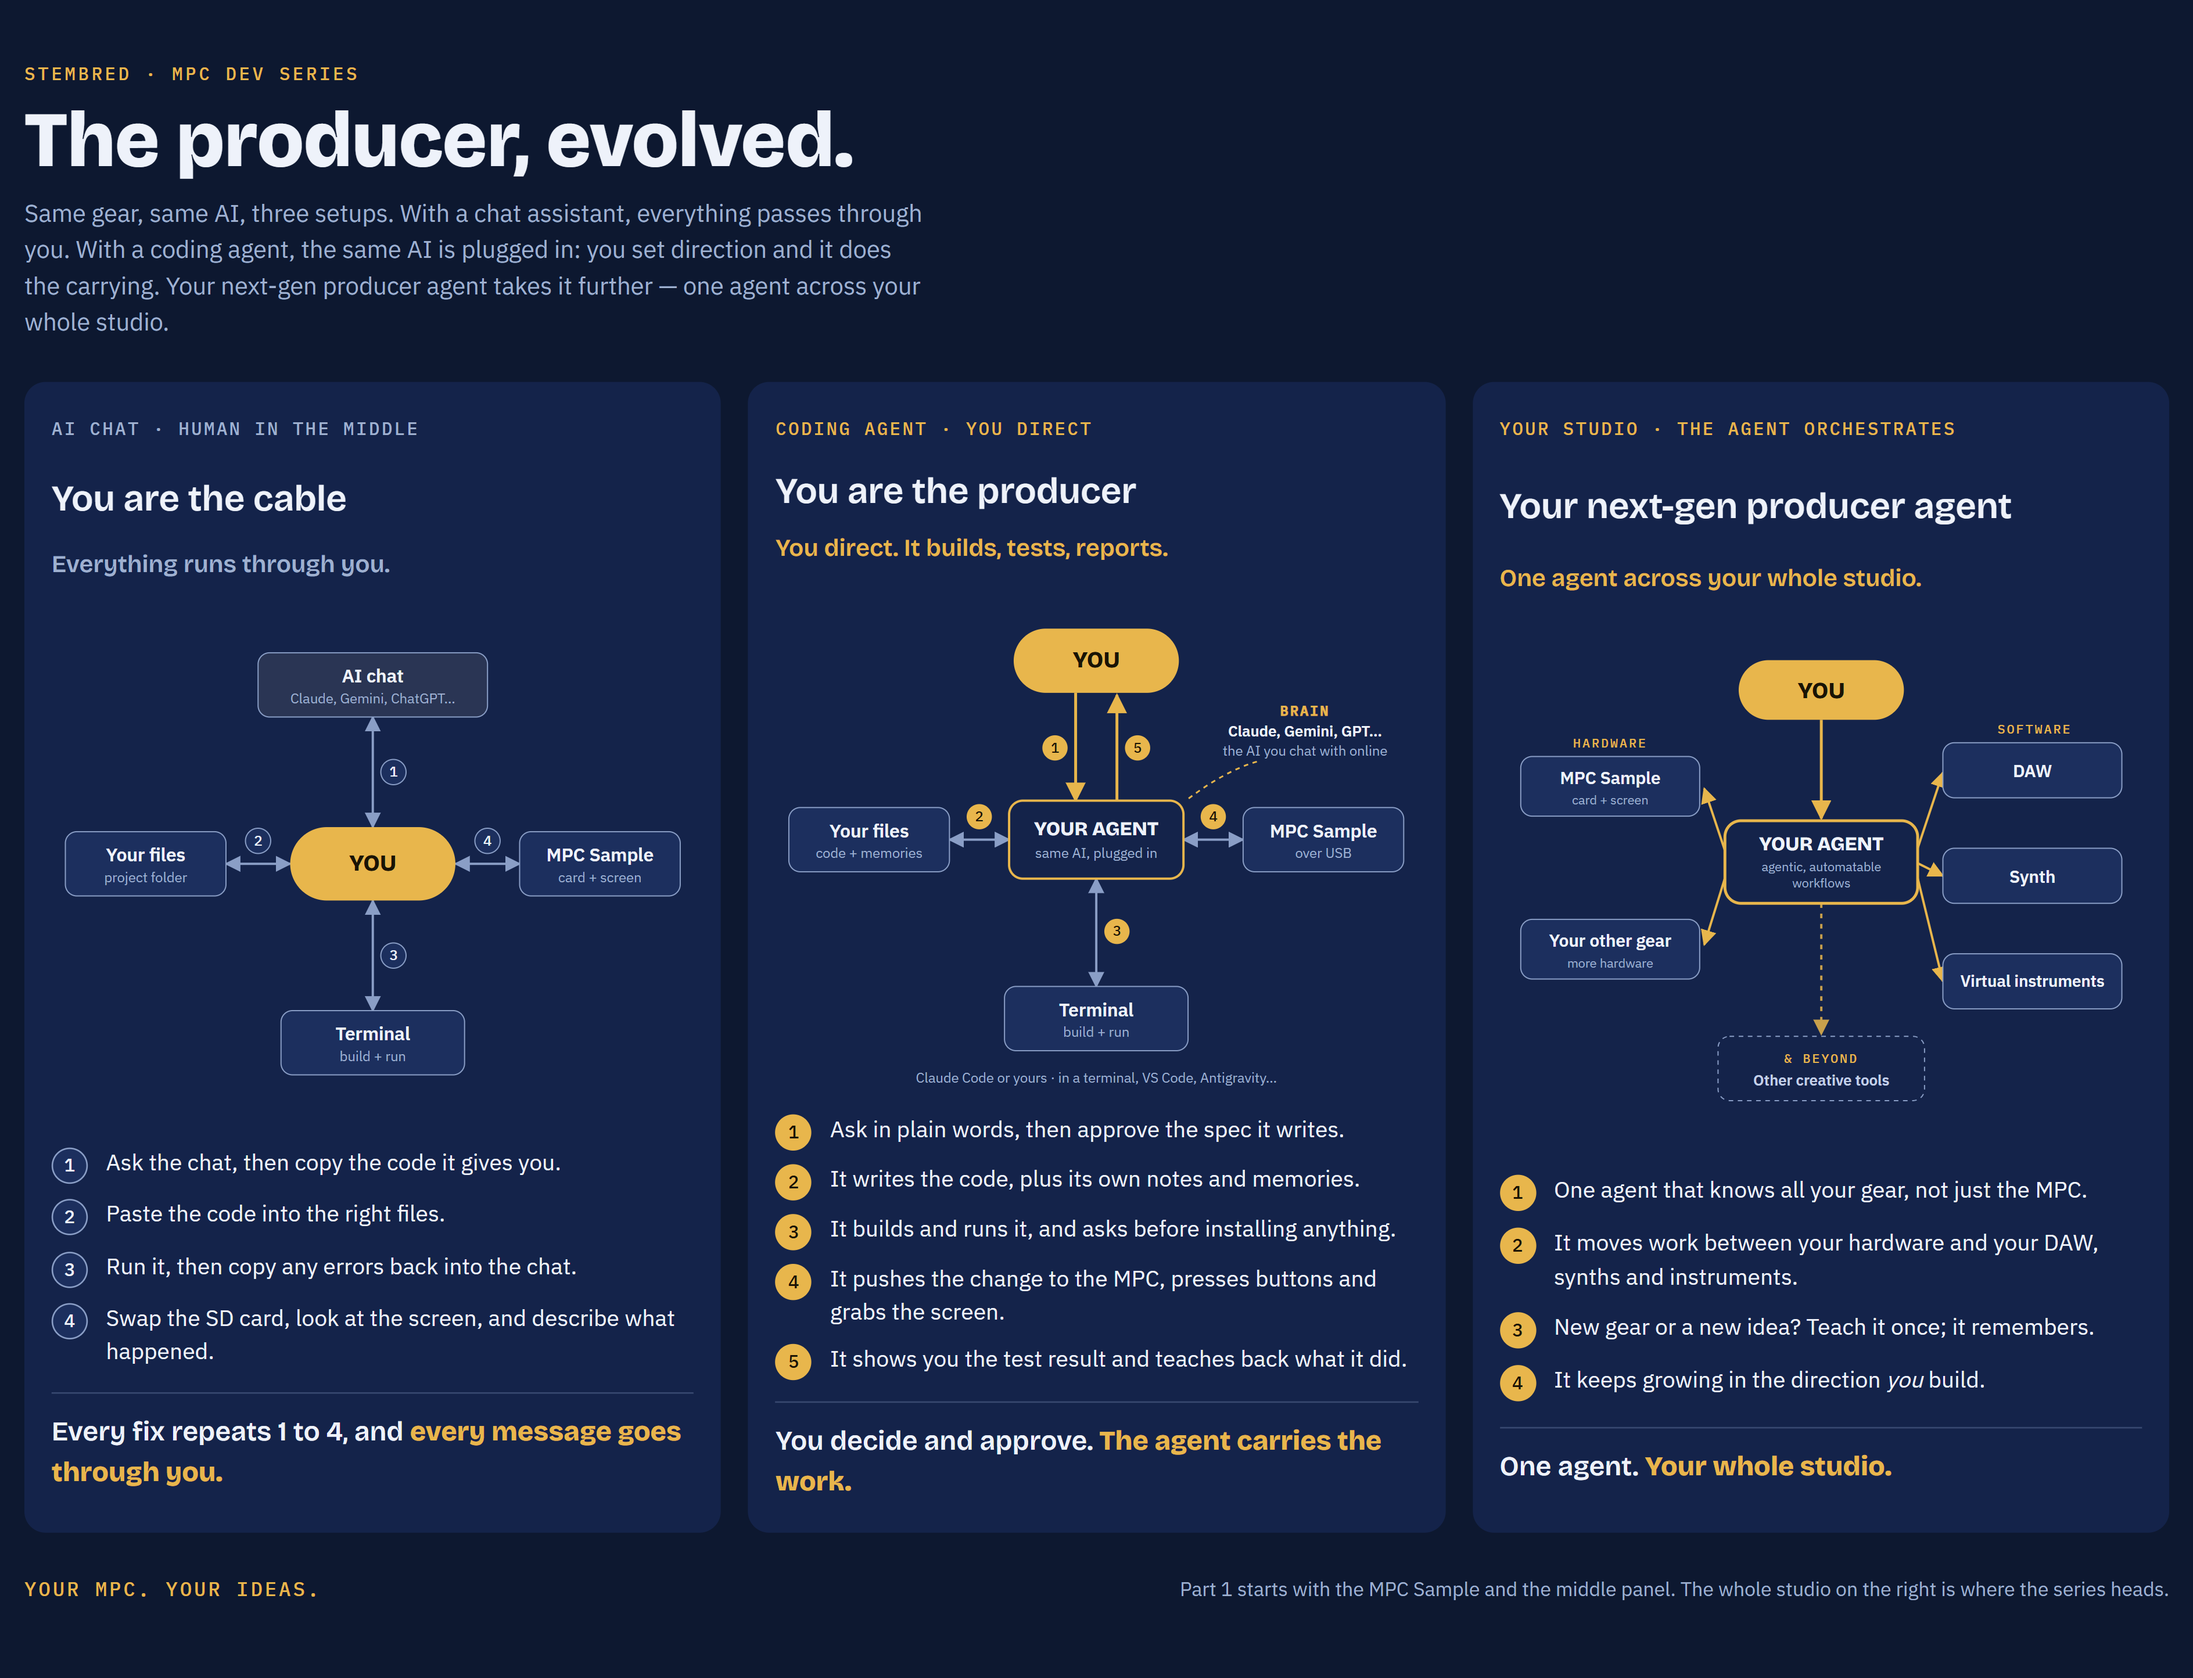
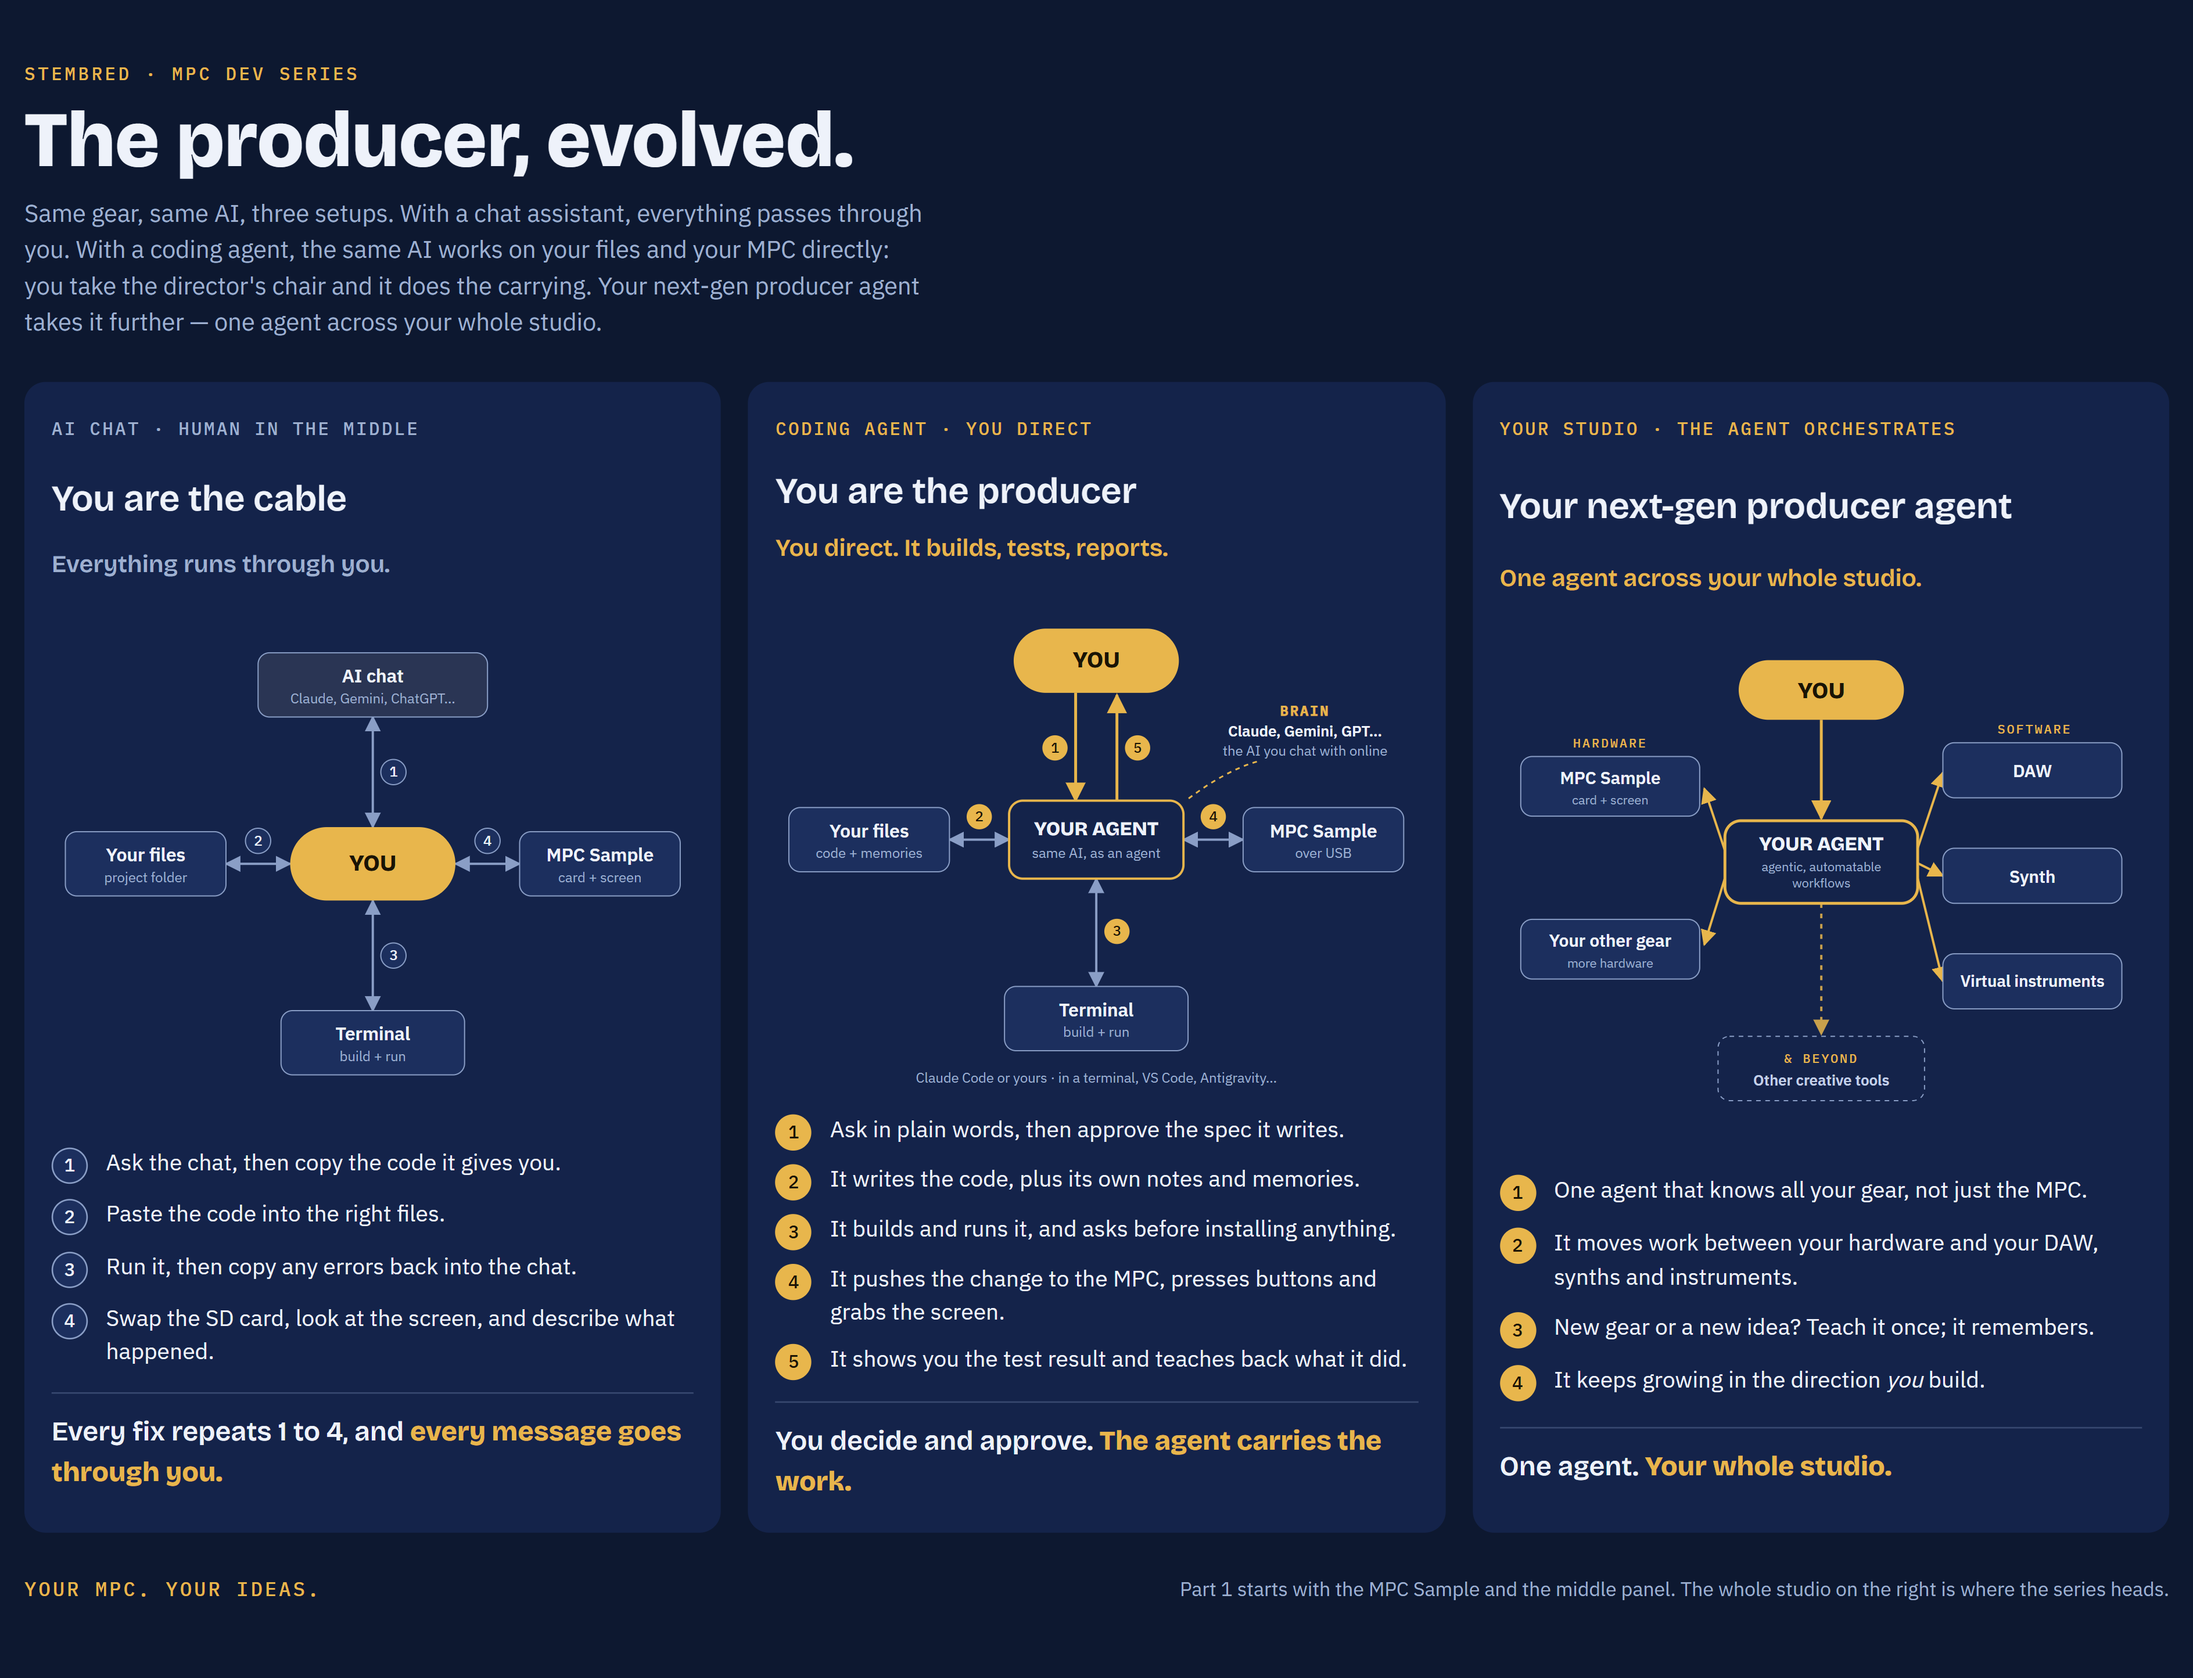
Pictures: "same AI, as an agent" + director's chair wording
- Agent box: "same AI, plugged in" -> "same AI, as an agent" (also on the cables picture)
- Intro: the same AI works on your files and your MPC directly; you take the director's chair

Changed region(s): [[0.0, 0.1246, 0.4029, 0.2181], [0.4959, 0.4984, 0.5269, 0.5296]]

diff --git a/README.md b/README.md
@@ -35,7 +35,7 @@ Every fix repeats 1 to 4, and **every message goes through you.**
 
 #### 2. Coding agent: you are the producer
 
-![Coding agent: the same AI, plugged in. It works with your files, the terminal and the MPC, then reports back](images/panel-2-agent.png)
+![Coding agent: the same AI, as an agent. It works with your files, the terminal and the MPC, then reports back](images/panel-2-agent.png)
 
 1. Ask in plain words, then approve the spec it writes.
 2. It writes the code, plus its own notes and memories.
